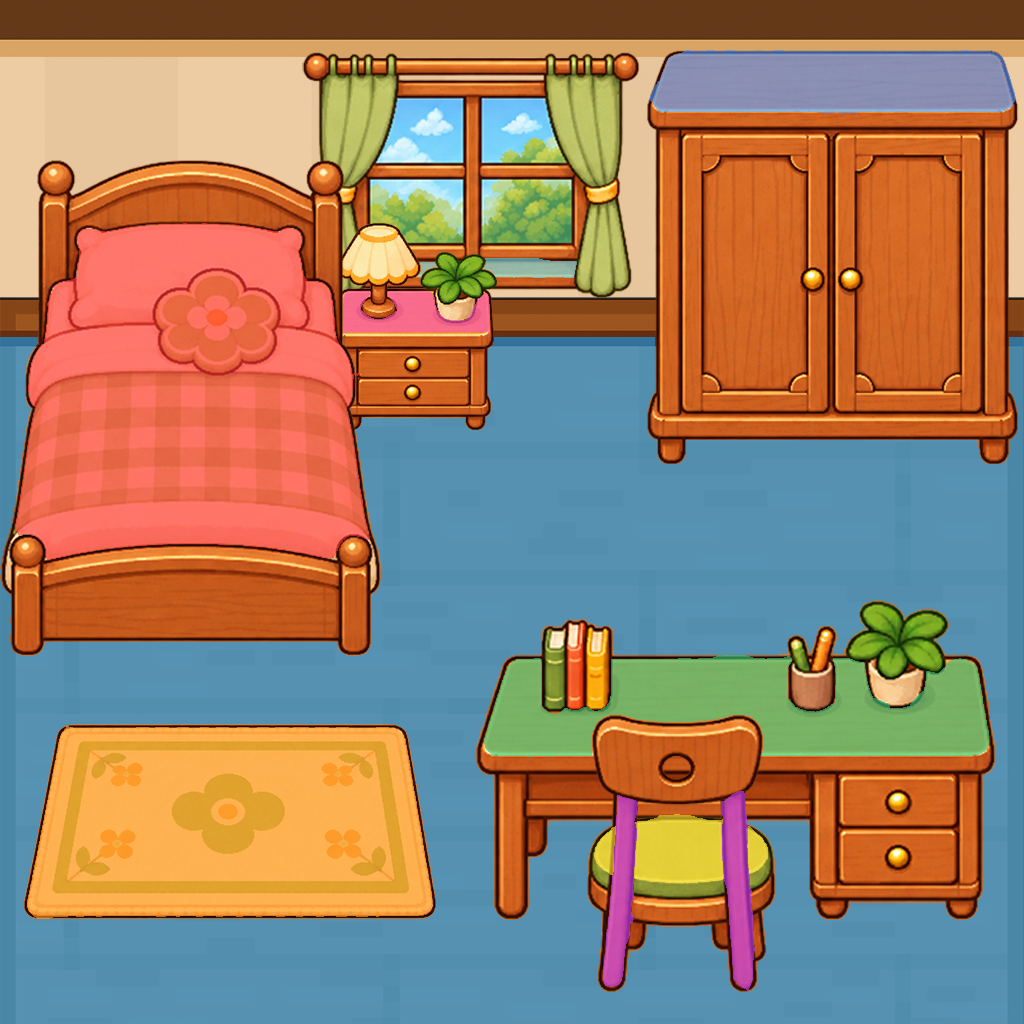
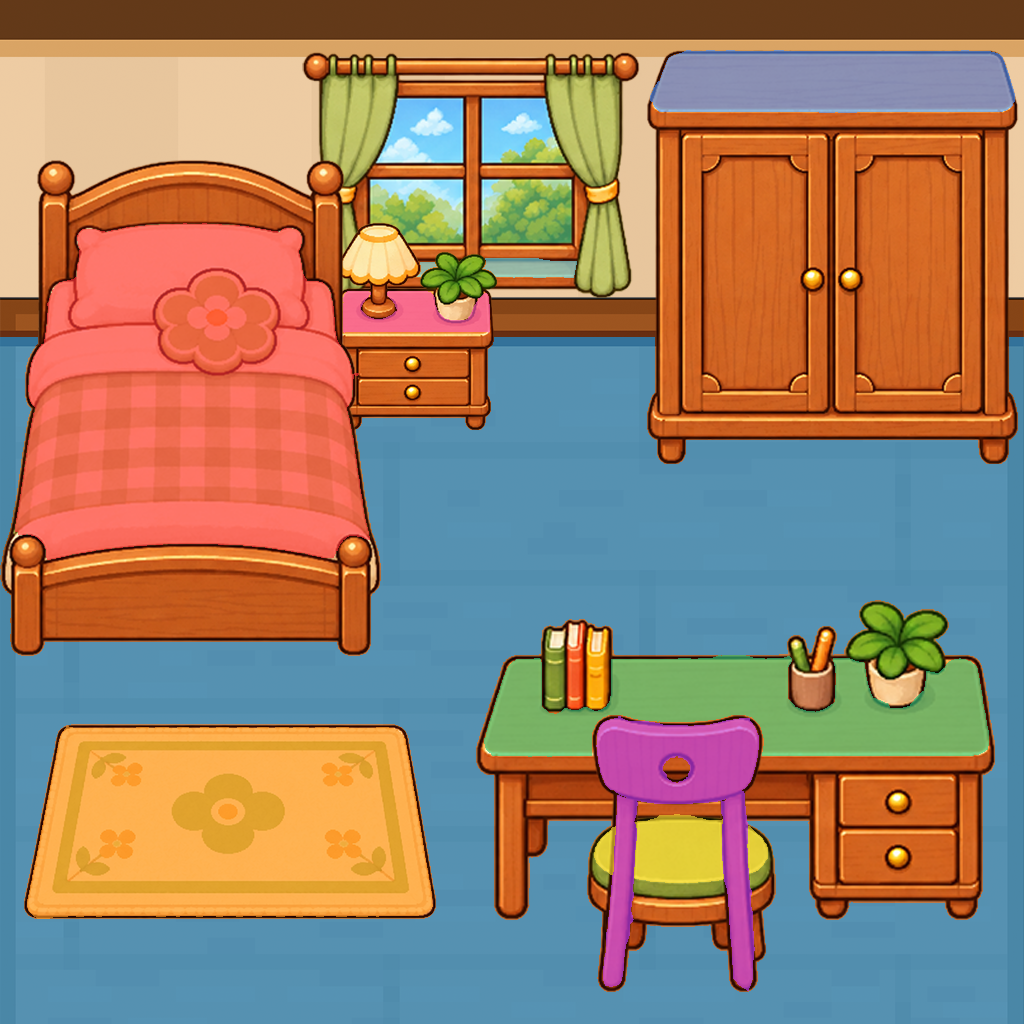
assets: checkpoint supporting source authority

Changed region(s): [[0.5625, 0.6875, 0.75, 0.8125]]

diff --git a/tests/curator-room-native-spatial-foundation-v1.fixture.py b/tests/curator-room-native-spatial-foundation-v1.fixture.py
@@ -37,7 +37,7 @@ SURFACE_DEFINITIONS = [
      [(650, 50, 1015, 113)], "Paint covers the wardrobe roof in the closet layer, including one connected edge band."),
     ("curator-chair-seat", "chair.png", "seat", "furniture-level", "requires-future-transition", "medium-high",
      [(634, 814, 724, 883), (594, 826, 616, 875), (747, 826, 768, 873)],
-     "Three red islands overlap the chair cushion/body; purple marks its front legs separately."),
+     "Three red islands overlap the chair cushion/body; purple selects its approved foreground frame."),
     ("curator-bedside-cabinet-top", "cabin.png", "cabinet-top", "furniture-level", "requires-future-transition", "high",
      [(343, 291, 490, 333)], "Painted top wraps around lamp and plant on the cabinet layer."),
     ("curator-window-ledge", "window.png", "window-ledge", "elevated", "requires-future-transition", "medium-high",
@@ -124,13 +124,18 @@ def report(name: str, body: str, write: bool) -> None:
     target = QA / (name + ".txt")
     content = body.strip() + "\n"
     if write:
-        target.write_text(content)
+        if not target.exists() or target.read_text() != content:
+            target.write_text(content)
     else:
         assert target.read_text() == content, f"stale report: {name}"
 
 
 def image(target: Path, expected: Image.Image, write: bool) -> None:
     if write:
+        if target.exists():
+            actual = Image.open(target)
+            if actual.size == expected.size and actual.mode == expected.mode and np.array_equal(np.asarray(actual), np.asarray(expected)):
+                return
         target.parent.mkdir(parents=True, exist_ok=True)
         expected.save(target, format="PNG")
     else:
@@ -171,13 +176,13 @@ def main(write: bool) -> None:
     purple = (r >= 165) & (r <= 190) & (g >= 65) & (g <= 105) & (b >= 240) & (delta >= 40)
     assert not np.any((floor & red) | (floor & purple) | (red & purple))
     assert np.all(delta[floor | red | purple] > 0), "unchanged room art was captured"
-    assert (int(floor.sum()), int(red.sum()), int(purple.sum())) == (340122, 235220, 8512)
+    assert (int(floor.sum()), int(red.sum()), int(purple.sum())) == (340122, 235220, 19949)
     floor_components = connected_components(floor)
     red_components = connected_components(red)
     purple_components = connected_components(purple)
     assert len(floor_components) == 3
     assert len(red_components) == 10
-    assert len(purple_components) == 2
+    assert len(purple_components) == 1
 
     masks = {}
     surface_records = []
@@ -216,10 +221,10 @@ def main(write: bool) -> None:
     assert purple_overlap_chair >= int(purple.sum() * .99)
     occlusion = {"source": "reference.png:purple", "mask": "spatial/occlusion-candidate.png",
                  "pixelCount": int(purple.sum()), "bounds": bounds(purple),
-                 "ownerLayer": "chair.png", "portion": "two front chair legs / frame strips",
+                 "ownerLayer": "chair.png", "portion": "approved chair back / foreground frame and downward members",
                  "ownerAlphaOverlapPixels": purple_overlap_chair,
                  "relatedSurfaceIds": ["curator-chair-seat"],
-                 "mayOcclude": "chair-seat presentation or adjacent painted floor, subject to future depth authoring",
+                 "mayOcclude": "real chair pixels selected by purple may cover an authorized chair-seat resident",
                  "runtimeClippingEnabled": False,
                  "components": [{"pixels": item["pixels"], "bounds": item["bounds"]} for item in purple_components]}
     source = {"schemaVersion": 1, "roomId": "curator-room", "displayName": "馆长室",
@@ -236,8 +241,16 @@ def main(write: bool) -> None:
               "occlusionCandidate": occlusion,
               "entryPoints": [], "transitions": [], "behaviorAffordances": [],
               "obstacleMap": None}
-    source_json = json.dumps(source, ensure_ascii=False, indent=2) + "\n"
     metadata = SPATIAL / "curator-room-spatial-source.json"
+    # Interaction authoring lives in this source; geometry regeneration must
+    # preserve it. The production navigation contract validates its coordinates.
+    if metadata.exists():
+        existing = json.loads(metadata.read_text())
+        source["occlusionCandidate"]["runtimeClippingEnabled"] = existing.get("occlusionCandidate", {}).get("runtimeClippingEnabled", False)
+        authored = existing.get("furnitureInteractions")
+        if authored is not None:
+            source["furnitureInteractions"] = authored
+    source_json = json.dumps(source, ensure_ascii=False, indent=2) + "\n"
     if write:
         metadata.write_text(source_json)
     else:
@@ -326,8 +339,8 @@ def main(write: bool) -> None:
     report("purple-occlusion-ownership-audit", "PURPLE OCCLUSION CANDIDATE\n" +
            f"Pixels: {int(purple.sum())}; bounds {bounds(purple)}; components: {len(purple_components)}. "
            f"Chair layer overlap: {purple_overlap_chair}/{int(purple.sum())}.\n" +
-           "Two marked strips follow the front chair legs/frame. They may later cover a resident at the chair seat "
-           "or adjacent ground. Purple is presentation metadata only: no walkability, collision, transition or live clipping.", write)
+           "Approved purple follows the chair back/frame and downward foreground members. Original chair pixels may cover a resident at the chair seat "
+           "during its authorized interaction. Purple is presentation metadata only; it never grants walkability or world occupancy.", write)
     report("curator-room-spatial-source-contract", "MACHINE-READABLE CURATOR ROOM SOURCE\n" +
            "assets/meeow-map/curator/spatial/curator-room-spatial-source.json describes canonical 1024x1024, "
            "source hashes, exact floor and per-surface masks, classes, owners, bounds, components, confidence, "

diff --git a/assets/meeow-item-source/QA/living-world-master-roadmap-v1/ROADMAP.md b/assets/meeow-item-source/QA/living-world-master-roadmap-v1/ROADMAP.md
@@ -1,0 +1,27 @@
+# Meeow Living World master roadmap
+
+This is the durable order for the Living World workstream. Read it at the start of each future Living World implementation or audit. Record the current step and the immediate next step; do not silently reorder, skip, or implement the next step without a user request. If a dependency changes, document the proposed change before altering this order.
+
+## Completed foundation
+
+Curator native spatial foundation; runtime visual integration; legacy placement reconciliation; free-floor navigation; floor/rug seam navigation; depth, motion, and rest coherence; Ambient Activity and Pose Capability; Persistent Settled World State V1; Industry Architecture Comparative Audit V1.
+
+## Numbered workstream
+
+1. **COMPLETE / LOCKED — Behavior Eligibility + Affordance + Claim + Interruption + Diagnostics Foundation V1.** Pure behavior candidates precede selection; the chosen behavior prepares its visual or destination; a session instance owns its lifecycle and existing destination reservation. Current stationary behaviors remain targetless. This step adds no Item, Furniture, or Social behavior.
+2. **BLOCKED — Animation Binding + Chassis Anchor Contract V1.** Runtime binding, world-foot invariance, fallback, cancellation, and synthetic overlap/reveal conversion are implemented. Lock is withheld because an externally generated pixel-consistent clean body plate and motion frames have not been demonstrated; the current exact-fit converter cannot prove that ordinary AI output will avoid manual pixel repair. See the Step #2 QA handoff and conversion audit.
+3. **NOT STARTED — Ambient Animation Slice V1.** First low-risk idle, observe, groom, and sleep animations; no target-dependent animation.
+4. **NOT STARTED — Furniture Interaction Contract V1.** Generic interaction surface, approach, occupancy slot, transition, posture, affordance, occlusion, and exit; one complete reference furniture object.
+5. **NOT STARTED — Furniture Behaviors V1.** Connect sleep, sit-idle, observe, and rest to authored furniture affordances, with contention and fallback.
+6. **NOT STARTED — Owned Item Interaction Contract V1.** Exact item ID, ownership and semantic eligibility, claim, cancellation, cooldown, and behavior context. Preferences, Bond, and fondness remain bounded influences.
+7. **NOT STARTED — Item Prop Presentation + Item Animation V1.** Frozen item visual identity, posture-relative prop presentation, first item-use animations.
+8. **NOT STARTED — Social Interaction Contract V1.** Initiator, recipient, availability, shared instance, partner slots, claims, approach, phases, synchronized start, interruption, consequence receipt.
+9. **NOT STARTED — Social Behaviors + Pair Animation V1.** PROGRAM-owned cat-to-cat behaviors and synchronized presentation.
+10. **NOT STARTED — Structured Personality Integration V1.** Bounded inspectable weight modifiers after eligibility; Personality does not override physical availability.
+11. **NOT STARTED — Behavior Selection Evolution V2.** Evaluate continuation, cooldowns, context, target attractiveness, relationships, and bounded Personality influence only where justified.
+12. **NOT STARTED — Multi-Resident Performance + Scheduling V1.** Profile 1, 6, 12, and 20 visible residents before adding scheduling budgets; 55 global residents do not all need per-frame simulation.
+13. **NOT STARTED — Five-Minute Watch Test V1.** Observe movement, repetition, destination reuse, synchronized decisions, contention, abrupt changes, dead time, crowding, and believable continuation.
+14. **LATER — Inactive Room / Re-entry Simulation V1.** Active-room-first; later evaluate bounded inactive abstraction and event-jump catch-up.
+15. **DEFER — Offline / Long-Term World Simulation.** Build only for a demonstrated product need; prefer idempotent event jumps over hidden continuous simulation.
+
+At the end of every future pass, identify each step as NOT STARTED, IN PROGRESS, BLOCKED, COMPLETE, or COMPLETE / LOCKED, and name the immediate next step. Resolve Step #2's external-reference conversion blocker before starting Step #3.
